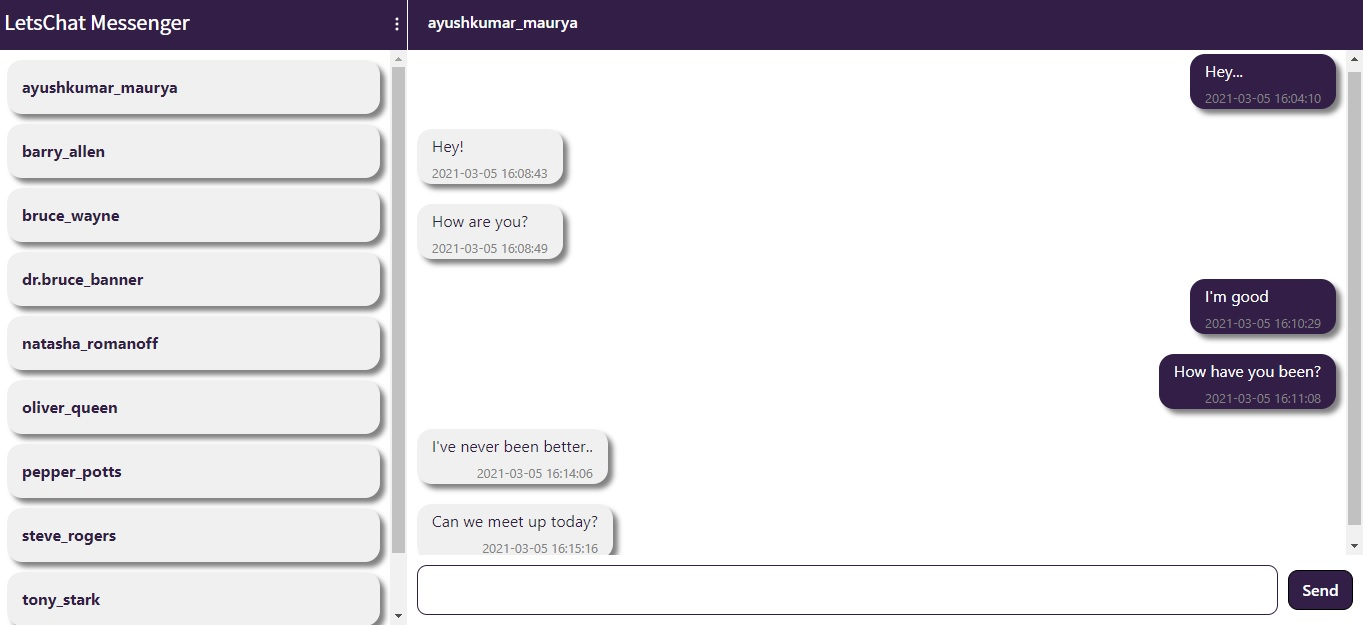
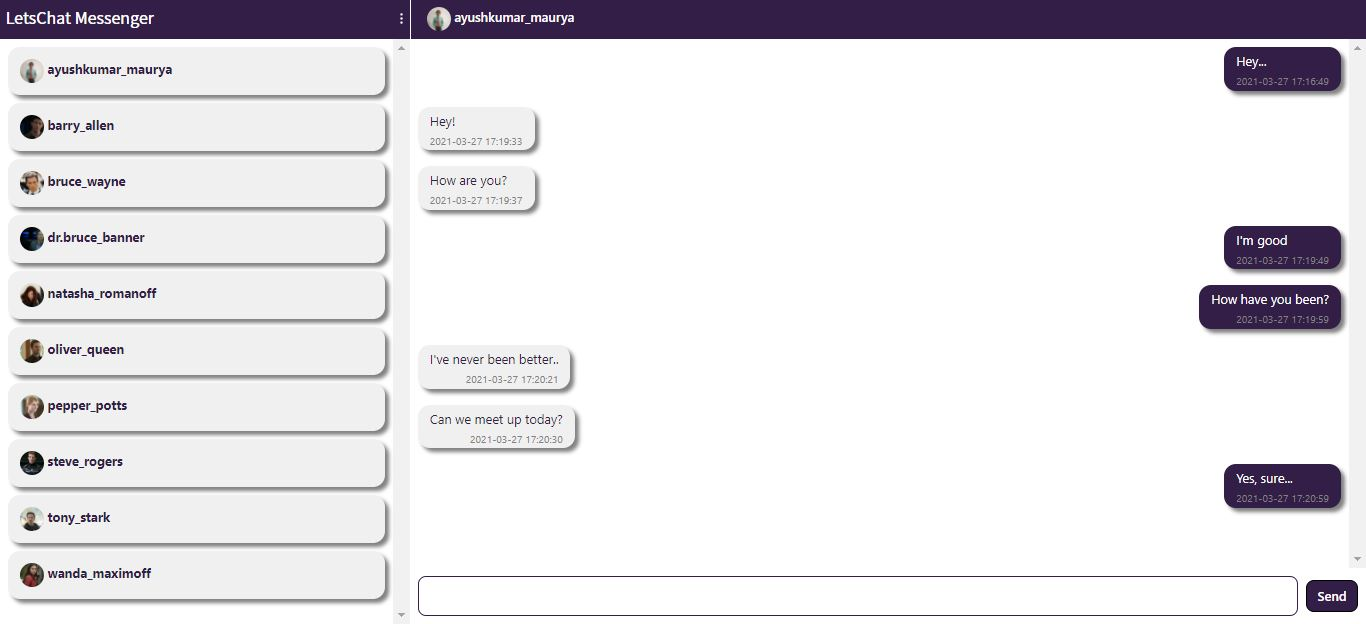
Added Profile photo

Changed region(s): [[0.0, 0.0, 1.0, 1.0]]

diff --git a/templates/chat.html b/templates/chat.html
@@ -2,6 +2,9 @@
 {% block css %}
 <link rel='stylesheet' type='text/css' href="{{ url_for('static', filename='css/chat.css') }}">
 {% endblock %}
+{% block js %}
+<script src="{{ url_for('static', filename='js/profile_img.js') }}"></script>
+{% endblock %}
 
 {% block body %}
 <div class="outer-box">
@@ -28,7 +31,19 @@
 			{% for chat in chats %}
 				{% set userid = chat['userid'] %}
 				{% set username = chat['username'] %}
-				<button class="user-chat" onclick="chat('{{ userid }}', '{{ username }}');">{{ username }}</button>
+				{% set img_status = chat['profile_img_status'] %}
+				<button class="user-chat" onclick="chat('{{ userid }}', '{{ username }}', '{{ img_status }}');">
+		
+					<div class="profile-image" id="user-{{ username }}-default-profile-img" style="color: #321e46;">
+						{% include 'default_profile_img.html' %}
+					</div>
+					<div class="profile-image" id="user-{{ username }}-profile-img" style="display: none;">
+						<img class="profile-image" id="set-user-{{ username }}-profile-img" src="#" onclick="viewProfilePhoto('{{ username }}');">
+					</div>
+		
+					{{ username }}
+				</button>
+				<script>set_profile_photo("user-{{ username }}-profile-img", "user-{{ username }}-default-profile-img", "set-user-{{ username }}-profile-img", "{{ username }}", "{{ img_status }}");</script>
 			{% endfor %}
 		</div>
 	</div>
@@ -43,6 +58,14 @@
 						<path fill-rule="evenodd" d="M15 8a.5.5 0 0 0-.5-.5H2.707l3.147-3.146a.5.5 0 1 0-.708-.708l-4 4a.5.5 0 0 0 0 .708l4 4a.5.5 0 0 0 .708-.708L2.707 8.5H14.5A.5.5 0 0 0 15 8z"/>
 					</svg>
 				</button>
+
+				<div class="profile-image" id="user-default-profile-img">
+					{% include 'default_profile_img.html' %}
+				</div>
+				<div class="profile-image" id="user-profile-img" style="display: none;">
+					<img class="profile-image" id="set-user-profile-img" src="#">
+				</div>
+
 				<span id="user-name">admin</span>
 			</div>
 		</div>
@@ -82,7 +105,19 @@
 				{% for contact in contacts %}
 					{% set userid = contact['userid'] %}
 					{% set contactname = contact['contactname'] %}
-					<button class="contact" onclick="chatWithContact('{{ userid }}', '{{ contactname }}');">{{ contactname }}</button>
+					{% set img_status = contact['profile_img_status'] %}
+					<button class="contact" onclick="chatWithContact('{{ userid }}', '{{ contactname }}', '{{ img_status }}');">
+					
+						<div class="profile-image" id="contact-{{ contactname }}-default-profile-img" style="color: #321e46;">
+							{% include 'default_profile_img.html' %}
+						</div>
+						<div class="profile-image" id="contact-{{ contactname }}-profile-img" style="display: none;">
+							<img class="profile-image" id="set-contact-{{ contactname }}-profile-img" src="#" onclick="viewProfilePhoto('{{ contactname }}');">
+						</div>
+
+						{{ contactname }}
+					</button>
+					<script>set_profile_photo("contact-{{ contactname }}-profile-img", "contact-{{ contactname }}-default-profile-img", "set-contact-{{ contactname }}-profile-img", "{{ contactname }}", "{{ img_status }}");</script>
 				{% endfor %}
 			</div>
 		</div>
@@ -122,6 +157,22 @@
 			</div>
 			<div class="modal-body">
 				<div class="mb-3">
+
+					<div class="profile-image" id="default-profile-img" style="color: #321e46;">
+						{% include 'default_profile_img.html' %}
+					</div>
+					<div class="profile-image" id="profile-img" style="display: none;">
+						<img class="profile-image" id="set-profile-img" src="#" onclick="viewProfilePhoto('{{ uname }}');">
+					</div>
+					<script>set_profile_photo("profile-img", "default-profile-img", "set-profile-img", "{{ uname }}", "{{ profile_img_status }}");</script>
+
+					<a href="#" data-bs-toggle="modal" data-bs-target="#profilePhotoModal">
+						<svg xmlns="http://www.w3.org/2000/svg" width="16" height="16" fill="currentColor" class="bi bi-pencil-fill edit" viewBox="0 0 16 16">
+							<path d="M12.854.146a.5.5 0 0 0-.707 0L10.5 1.793 14.207 5.5l1.647-1.646a.5.5 0 0 0 0-.708l-3-3zm.646 6.061L9.793 2.5 3.293 9H3.5a.5.5 0 0 1 .5.5v.5h.5a.5.5 0 0 1 .5.5v.5h.5a.5.5 0 0 1 .5.5v.5h.5a.5.5 0 0 1 .5.5v.207l6.5-6.5zm-7.468 7.468A.5.5 0 0 1 6 13.5V13h-.5a.5.5 0 0 1-.5-.5V12h-.5a.5.5 0 0 1-.5-.5V11h-.5a.5.5 0 0 1-.5-.5V10h-.5a.499.499 0 0 1-.175-.032l-.179.178a.5.5 0 0 0-.11.168l-2 5a.5.5 0 0 0 .65.65l5-2a.5.5 0 0 0 .168-.11l.178-.178z"/>
+						</svg>
+					</a>
+				</div>
+				<div class="mb-3">
 					<span class="plabel">Name:</span>
 					<p class="pinfo">{{ name }}</p>
 				</div>
@@ -130,6 +181,43 @@
 					<p class="pinfo">{{ uname }}</p>
 				</div>
 			</div>
+		</div>
+	</div>
+</div>
+
+<!-- View Profile Photo Modal -->
+<div class="modal fade" id="viewProfilePhotoModal" tabindex="-1" aria-labelledby="viewProfilePhotoModalLabel" aria-hidden="true">
+	<div class="modal-dialog modal-dialog-centered">
+		<div class="modal-content">
+			<div class="modal-header">
+				<button type="button" class="btn-close closeModal" data-bs-dismiss="modal" aria-label="Close"></button>
+			</div>
+			<div class="modal-body">
+				<img class="viewProfilePhoto" id="viewProfilePhoto" src="#">
+			</div>
+		</div>
+	</div>
+</div>
+
+<!-- Update Profile Photo Modal -->
+<div class="modal fade" id="profilePhotoModal" tabindex="-1" aria-labelledby="profilePhotoModalLabel" aria-hidden="true">
+	<div class="modal-dialog">
+		<div class="modal-content">
+			<div class="modal-header">
+				<h5 class="modal-title" id="profilePhotoModalLabel">Update Profile Photo</h5>
+				<button type="button" class="btn-close closeModal" data-bs-dismiss="modal" aria-label="Close"></button>
+			</div>
+			<form action="/upload_profile_photo" method="POST" enctype="multipart/form-data">
+				<div class="modal-body">
+					<div class="mb-3">
+						<input type="file" class="form-control input" name="profile-photo" required>
+					</div>
+				</div>
+				<div class="modal-footer">
+					<button type="button" class="btn btn-secondary closeModal" data-bs-dismiss="modal">Close</button>
+					<button type="submit" class="btn update-photo">Update</button>
+				</div>
+			</form>
 		</div>
 	</div>
 </div>

diff --git a/static/js/chat.js b/static/js/chat.js
@@ -113,7 +113,7 @@ function retrieve_chats(userid) {
 // Chat Window
 var msgCnt = 0;
 var ID = 0;
-function chat(userid, user) {
+function chat(userid, user, img_status) {
 
 	if(window.innerWidth < 576) {
 		chatsDiv.style.display = "none";
@@ -126,15 +126,18 @@ function chat(userid, user) {
 	window.clearInterval(ID);
 	ID = window.setInterval(retrieve_chats, 1000, userid);
 
+	document.getElementById("set-user-profile-img").setAttribute("onclick", "viewProfilePhoto('" + user + "');");
+	set_profile_photo("user-profile-img", "user-default-profile-img", "set-user-profile-img", user, img_status);
+
 	document.getElementById("user-name").innerHTML = user;
 	document.getElementById("message").value = "";
 	document.getElementById("send").setAttribute("onclick", "sendMsg('"+ userid +"')");
 }
 
 // Closing contact modal
-function chatWithContact(userid, user) {
+function chatWithContact(userid, user, img_status) {
 	$("#contactsModal").modal("hide");
-	chat(userid, user);
+	chat(userid, user, img_status);
 }
 
 // Sending Message
@@ -148,4 +151,10 @@ function sendMsg(userid) {
 			document.getElementById("message").value = "";
 		}
 	});
+}
+
+// View Profile Photo of any user
+function viewProfilePhoto(user) {
+	document.getElementById("viewProfilePhoto").src = "/static/profile_photos/" + user + ".jpg";
+	$('#viewProfilePhotoModal').modal('show'); 
 }

diff --git a/static/css/chat.css b/static/css/chat.css
@@ -234,12 +234,12 @@ button.create-contact {
 	color: #fff;
 }
 
-button.create {
+button.create, button.update-photo {
 	background-color: #321e46;
 	color: #fff;
 }
 
-button.create-contact:hover, button.create:hover {
+button.create-contact:hover, button.create:hover, button.update-photo:hover {
 	background-color: #28143c;
 	color: #fff;
 }
@@ -259,6 +259,33 @@ p.pinfo {
 	font-weight: bold;
 }
 
-button.create-contact:focus, button.create:focus, button.closeModal:focus {
+svg.edit {
+	color: #321e46;
+}
+
+button.create-contact:focus, button.create:focus, button.update-photo:focus, button.closeModal:focus {
 	box-shadow: none;
+}
+
+div.profile-image {
+	height: 30px;
+	width: 30px;
+	display: inline-block;
+	border-radius: 25px;
+}
+
+img.profile-image {
+	height: 100%;
+	width: 100%;
+	border-radius: 25px;
+}
+
+svg.profile-image {
+	height: 100%;
+	width: 100%;
+}
+
+img.viewProfilePhoto {
+	height: 100%;
+	width: 100%;
 }

diff --git a/templates/index.html b/templates/index.html
@@ -40,6 +40,9 @@
 			<div class="carousel-item" data-bs-interval="5000">
 				<img src="{{ url_for('static', filename='carousel_images/letschat-messenger-3.jpg') }}" class="d-block w-100" alt="LetsChat Messenger">
 			</div>
+			<div class="carousel-item" data-bs-interval="5000">
+				<img src="{{ url_for('static', filename='carousel_images/letschat-messenger-4.jpg') }}" class="d-block w-100" alt="LetsChat Messenger">
+			</div>
 		</div>
 		<button class="carousel-control-prev" type="button" data-bs-target="#carouselInterval"  data-bs-slide="prev">
 			<span class="carousel-control-prev-icon" aria-hidden="true"></span>

diff --git a/templates/layout.html b/templates/layout.html
@@ -8,6 +8,8 @@
 	<link href="https://cdn.jsdelivr.net/npm/bootstrap@5.0.0-beta2/dist/css/bootstrap.min.css" rel="stylesheet" integrity="sha384-BmbxuPwQa2lc/FVzBcNJ7UAyJxM6wuqIj61tLrc4wSX0szH/Ev+nYRRuWlolflfl" crossorigin="anonymous">
 	<!-- CSS -->
 	{% block css %} {% endblock %}
+	<!-- Script -->
+	{% block js %} {% endblock %}
 	<!-- Font -->
 	<link rel="preconnect" href="https://fonts.gstatic.com">
 	<link href="https://fonts.googleapis.com/css2?family=Noto+Sans+JP&display=swap" rel="stylesheet">

diff --git a/static/js/profile_img.js b/static/js/profile_img.js
@@ -1,0 +1,7 @@
+function set_profile_photo(img_id, default_img_id, set_id, user, img_status) {
+	if (img_status == "1" || img_status == "True") {
+		document.getElementById(default_img_id).style.display = "none";
+		document.getElementById(set_id).src = "/static/profile_photos/" + user + ".jpg";
+		document.getElementById(img_id).style.display = "inline-block";
+	}
+}

diff --git a/templates/default_profile_img.html b/templates/default_profile_img.html
@@ -1,0 +1,4 @@
+<svg xmlns="http://www.w3.org/2000/svg" fill="currentColor" class="bi bi-person-circle profile-image" viewBox="0 0 16 16">
+	<path d="M11 6a3 3 0 1 1-6 0 3 3 0 0 1 6 0z"/>
+	<path fill-rule="evenodd" d="M0 8a8 8 0 1 1 16 0A8 8 0 0 1 0 8zm8-7a7 7 0 0 0-5.468 11.37C3.242 11.226 4.805 10 8 10s4.757 1.225 5.468 2.37A7 7 0 0 0 8 1z"/>
+</svg>

diff --git a/letschat_messenger.py b/letschat_messenger.py
@@ -1,8 +1,10 @@
 from flask import Flask, render_template, request, session, redirect, escape, jsonify
 from flask_sqlalchemy import SQLAlchemy
 from cryptography.fernet import Fernet
+from PIL import Image
 from datetime import datetime
 import random
+import os
 
 app = Flask(__name__)
 app.secret_key = str(random.randint(1111, 9999)).encode()
@@ -21,6 +23,7 @@ class Users(db.Model):
 	name = db.Column(db.String(100), nullable=False)
 	username = db.Column(db.String(100), unique=True, nullable=False)
 	password = db.Column(db.String(255), nullable=False)
+	profile_img_status = db.Column(db.Boolean, default=False, nullable=False)
 
 
 class Contacts(db.Model):
@@ -132,6 +135,25 @@ def create_contact():
 				return "1"
 
 
+# Uploading user's profile photo.
+@app.route("/upload_profile_photo", methods=['POST'])
+def upload_profile_photo():
+	photo = Image.open(request.files['profile-photo'])
+	photo = photo.convert('RGB')
+	size = min(photo.size)
+	profile_photo = photo.crop((0, 0, size, size))
+
+	photo_name = str(session['username']) + ".jpg"
+	filename = os.path.join("static\\profile_photos", photo_name)
+	profile_photo.save(filename)
+
+	user = Users.query.get_or_404(session['userid'])
+	user.profile_img_status = True
+	db.session.commit()
+	
+	return redirect("/chat")
+
+
 # Retrieving chats
 @app.route("/retrieve_chats", methods=['POST'])
 def retrieve_chats():
@@ -210,15 +232,15 @@ def chat():
 		return redirect("/")
 	
 	else:
-		sql1 = "SELECT userid, username FROM users WHERE "
+		sql1 = "SELECT userid, username, profile_img_status FROM users WHERE "
 		sql1 += "userid IN (SELECT user1id FROM chats_count WHERE user2id=:userid) OR "
 		sql1 += "userid IN (SELECT user2id FROM chats_count WHERE user1id=:userid) "
 		sql1 += "ORDER BY username"
 		chats = db.session.execute(sql1, {'userid': session['userid']})
 
-		name = db.session.query(Users.name).filter_by(userid=session['userid']).first()[0]
+		name, profile_img_status = db.session.query(Users.name, Users.profile_img_status).filter_by(userid=session['userid']).first()
 
-		sql2 = "SELECT users.userid, contacts.contactname "
+		sql2 = "SELECT users.userid, users.profile_img_status, contacts.contactname "
 		sql2 += "FROM contacts INNER JOIN users ON contacts.contactname = users.username "
 		sql2 += "WHERE contacts.userid = :userid ORDER BY contacts.contactname"
 		contacts = db.session.execute(sql2, {'userid': session['userid']})
@@ -227,6 +249,7 @@ def chat():
 		cdt = datetime.now().strftime("%Y-%m-%d %H:%M:%S")[:19],
 		chats = chats,
 		name = name,
+		profile_img_status = profile_img_status,
 		contacts = contacts,
 		uname = session['username']
 	)

diff --git a/README.md b/README.md
@@ -26,7 +26,12 @@ User can create contacts list and can have chat with them with the help of their
 	pip install cryptography
 	```
 
-4. Execute `create.py` to create all database tables:
+4. Install Pillow (PIL fork) using the following command:
+	```
+	pip install Pillow
+	```
+
+5. Execute `create.py` to create all database tables:
 	```
 	python create.py
 	```

diff --git a/static/profile_photos/README.md b/static/profile_photos/README.md
@@ -1,0 +1,1 @@
+Profile photos of each user is being stored in this folder.
